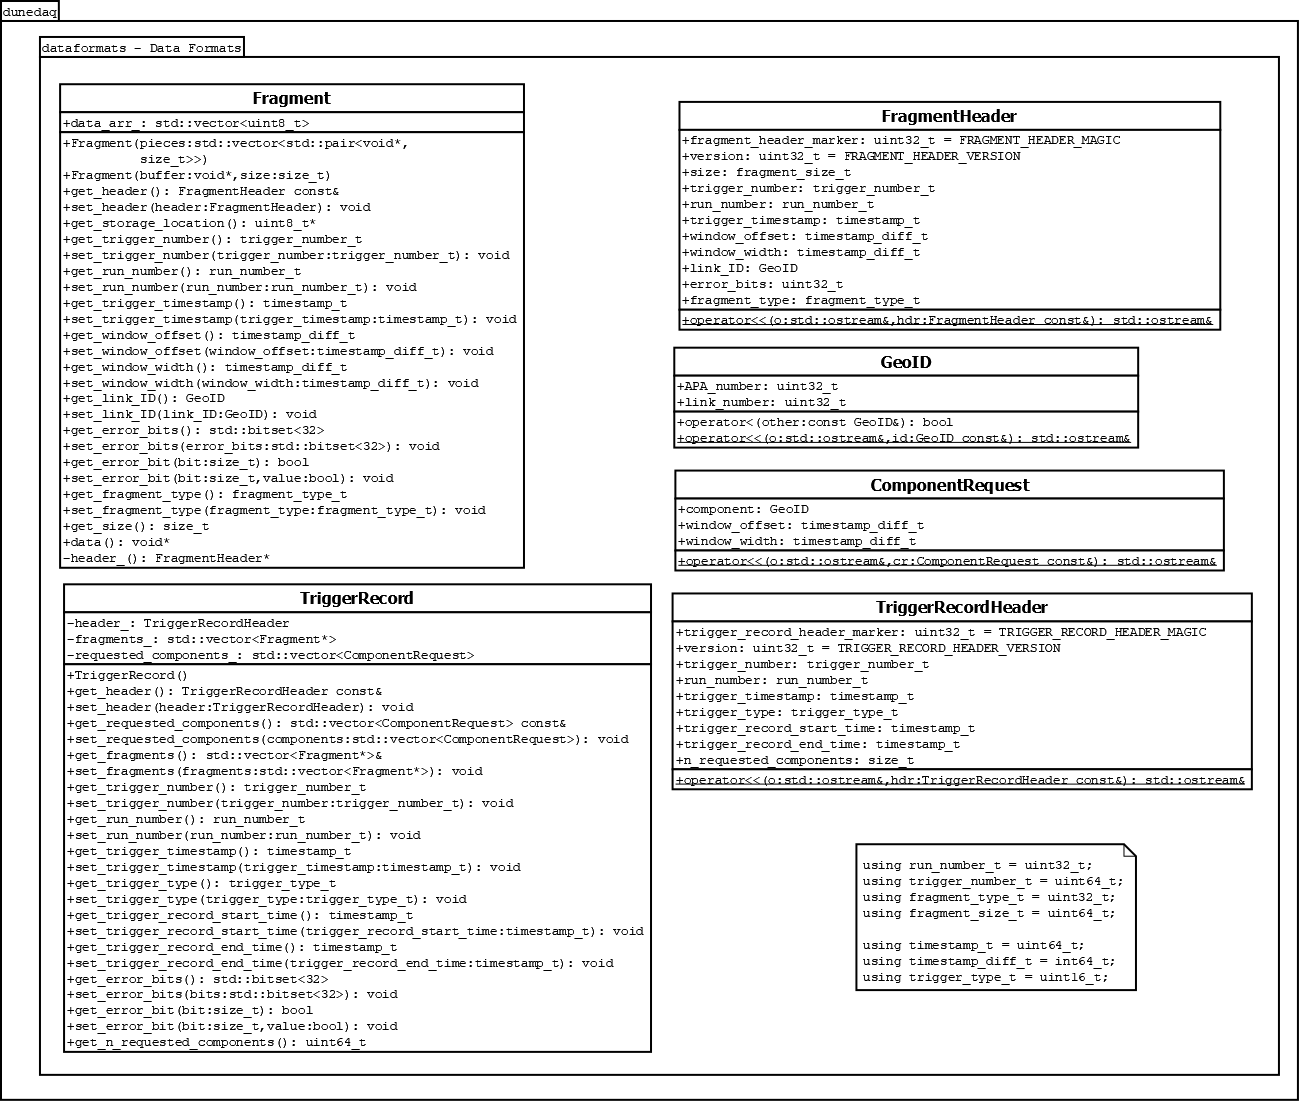
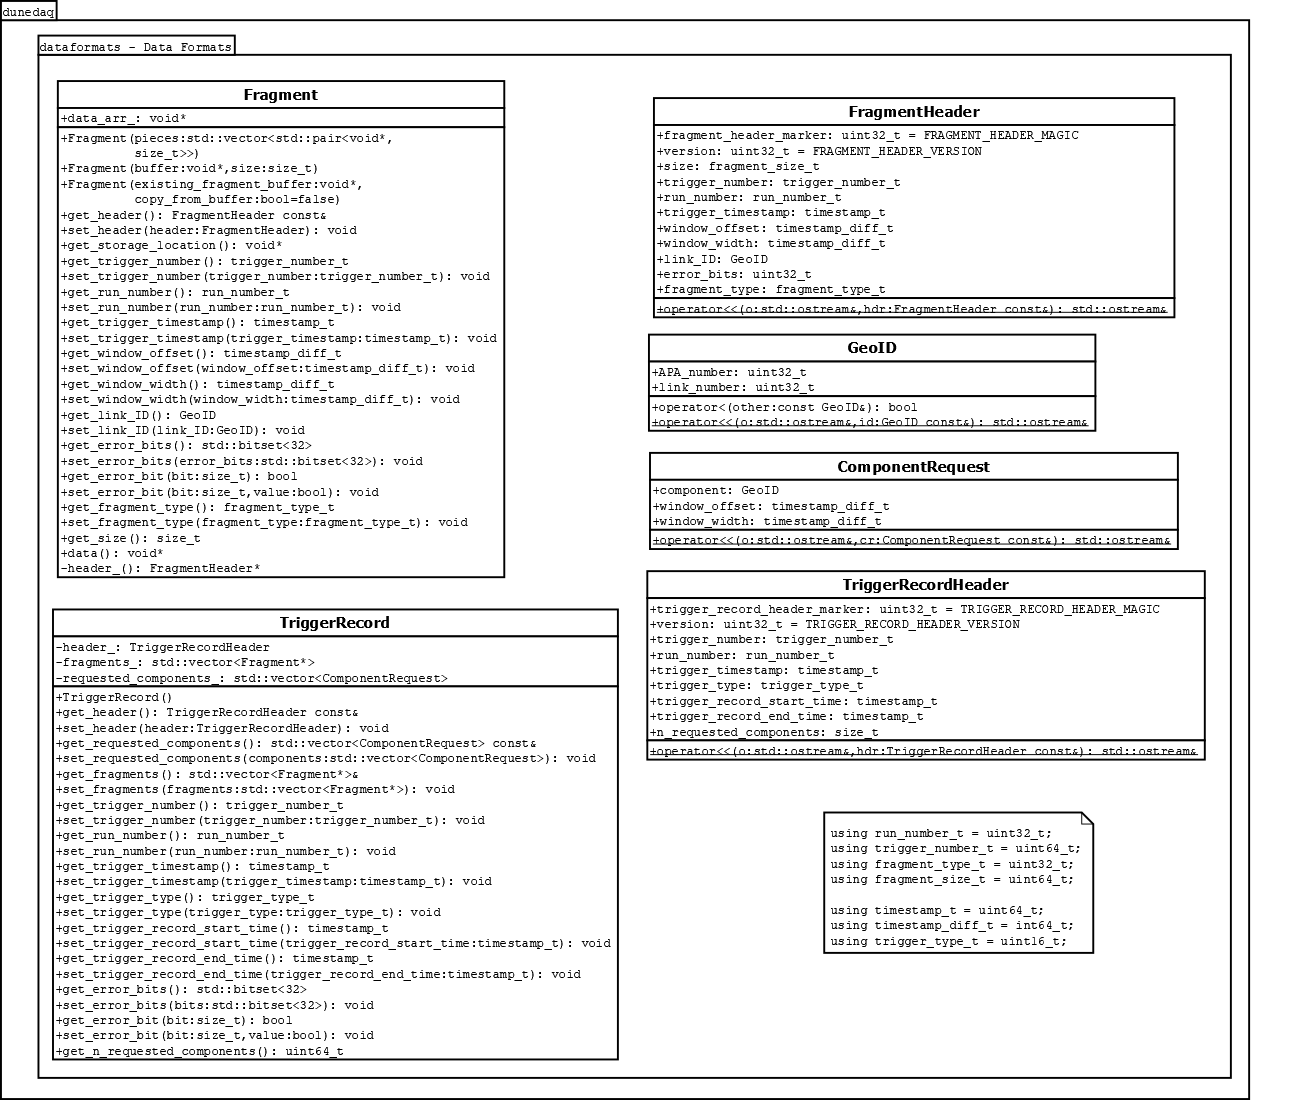
Change vector<uint8_t> to void* with explicit malloc in constructor. Add get_storage_location and "existing Fragment" constructor for DataFlow. Add test for "existing Fragment" constructor. Update UML diagram.

Changed region(s): [[0.0, 0.0, 1.0, 1.0], [0.3692, 0.2162, 0.4, 0.247]]

diff --git a/include/dataformats/Fragment.hpp b/include/dataformats/Fragment.hpp
@@ -35,25 +35,35 @@ public:
     size_t size = sizeof(FragmentHeader) +
                   std::accumulate(pieces.begin(), pieces.end(), 0ULL, [](auto& a, auto& b) { return a + b.second; });
 
-    data_arr_ = std::vector<uint8_t>(size); // NOLINT(build/unsigned)
+    data_arr_ = malloc(size); // NOLINT(build/unsigned)
 
     FragmentHeader header;
     header.size = size;
-    memcpy(&data_arr_[0], &header, sizeof(header));
+    memcpy(data_arr_, &header, sizeof(header));
 
     size_t offset = sizeof(FragmentHeader);
     for (auto& piece : pieces) {
-      memcpy(&data_arr_[0] + offset, piece.first, piece.second); // NOLINT(build/unsigned)
+      memcpy(static_cast<uint8_t*>(data_arr_) + offset, piece.first, piece.second); // NOLINT(build/unsigned)
       offset += piece.second;
     }
   }
   Fragment(void* buffer, size_t size)
     : Fragment({ std::make_pair(buffer, size) })
   {}
+  explicit Fragment(void* existing_fragment_buffer, bool copy_from_buffer = false)
+  {
+    if (!copy_from_buffer) {
+        data_arr_ = existing_fragment_buffer;
+    } else {
+      auto header = reinterpret_cast<FragmentHeader*>(existing_fragment_buffer); // NOLINT
+      data_arr_ = malloc(header->size);
+      memcpy(data_arr_, existing_fragment_buffer, header->size);
+    }
+  }
 
   FragmentHeader const& get_header() { return *header_(); }
-  void set_header(FragmentHeader header) { memcpy(&data_arr_[0], &header, sizeof(header)); }
-  uint8_t* get_storage_location() { return &data_arr_[0]; }
+  void set_header(FragmentHeader header) { memcpy(data_arr_, &header, sizeof(header)); }
+  void* get_storage_location() { return data_arr_; }
 
   // Header setters and getters
   trigger_number_t get_trigger_number() { return header_()->trigger_number; }
@@ -85,15 +95,17 @@ public:
   /**
    * @brief Get the total size of the Fragment
    * @return The size of the Fragment, including header and all payload pieces
-  */
+   */
   fragment_size_t get_size() { return header_()->size; }
-  void* data() { 
+  void* data()
+  {
     // Increment header pointer by one to skip header
-    return static_cast<void*>(header_() + 1);  // NOLINT
+    return static_cast<void*>(header_() + 1); // NOLINT
   }
+
 private:
-  FragmentHeader* header_() { return reinterpret_cast<FragmentHeader*>(&data_arr_[0]); } // NOLINT
-  std::vector<uint8_t> data_arr_; // NOLINT(build/unsigned)
+  FragmentHeader* header_() { return static_cast<FragmentHeader*>(data_arr_); } // NOLINT
+  void* data_arr_;                                                        // NOLINT(build/unsigned)
 };
 } // namespace dataformats
 } // namespace dunedaq
